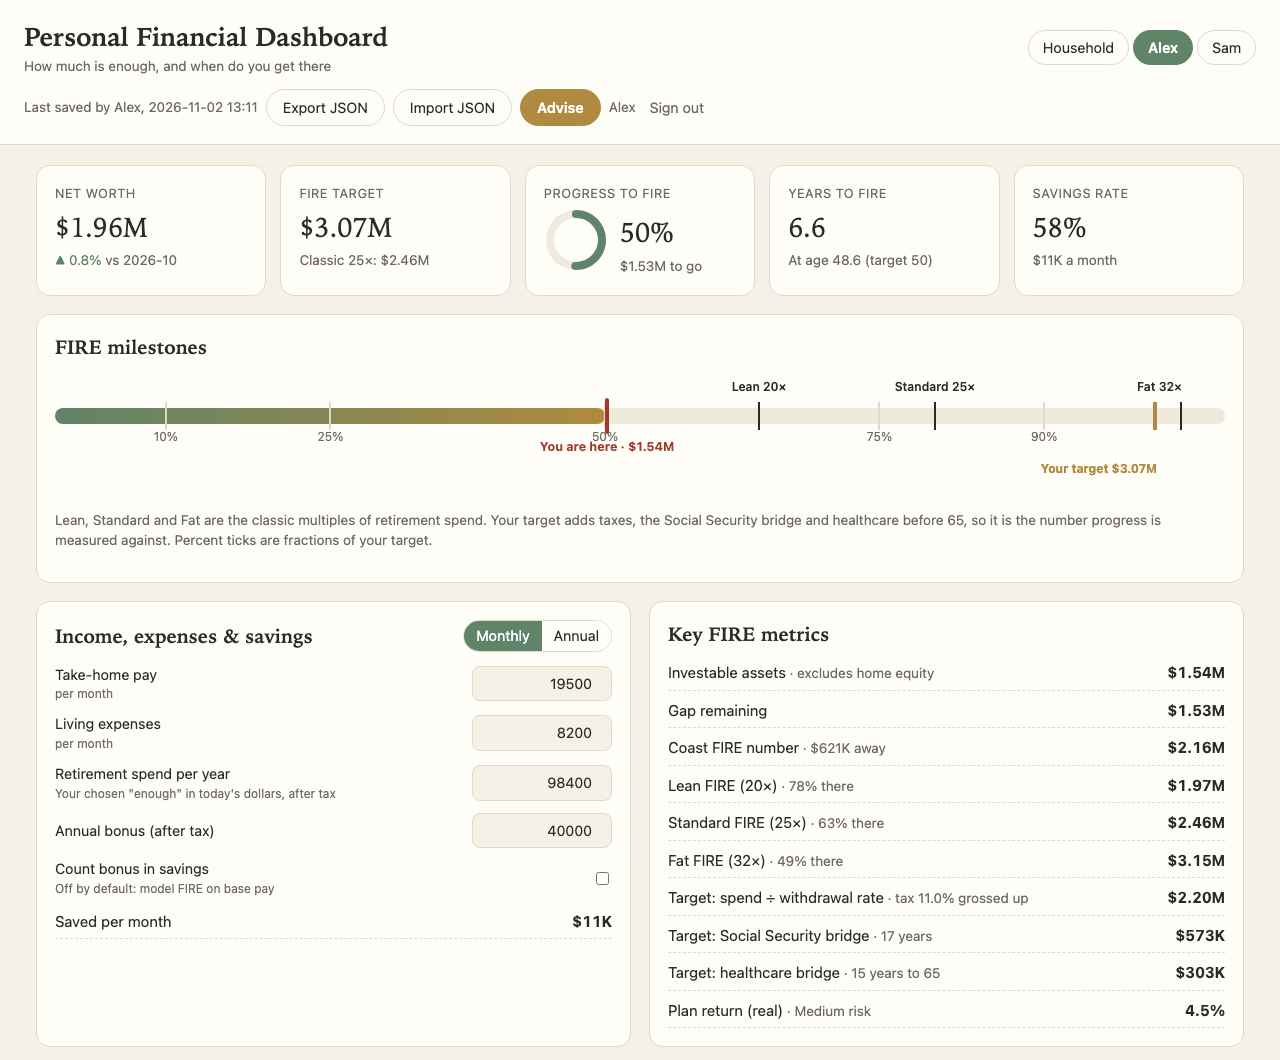
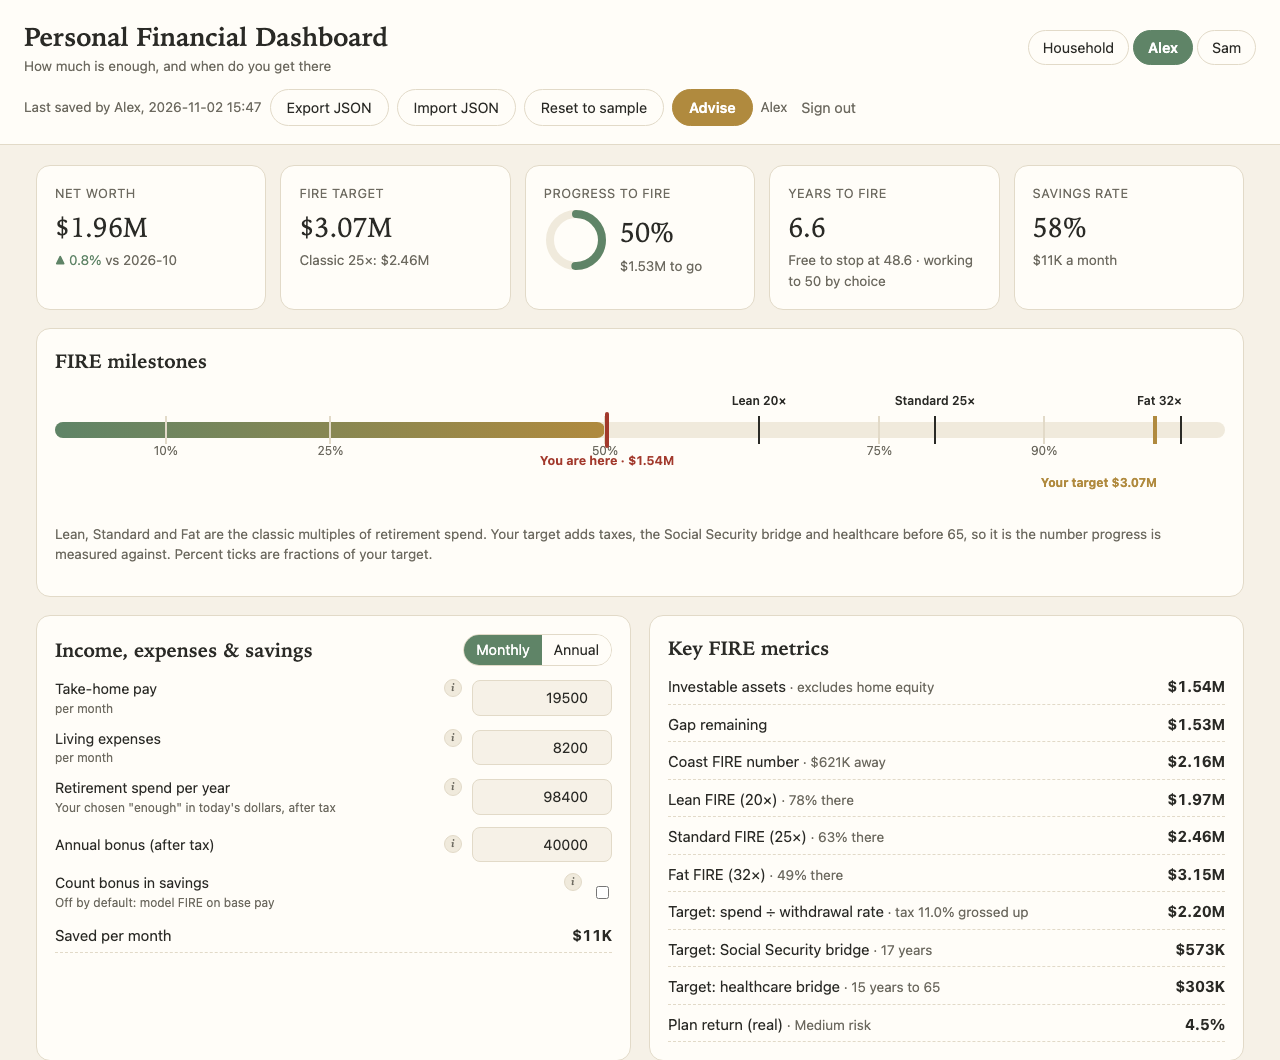
README: import, live prices, info tips, ages; new screenshots
Screenshot tour retaken (same fictional sample data) to show Import CSV,
Update prices, the holdings total row, Reset, the info tips and the
version footer, plus a new import-preview shot. Privacy section now says
exactly what Update prices sends. Roadmap drops the shipped holdings import.

diff --git a/README.md b/README.md
@@ -21,11 +21,14 @@ investment risk gets you there with the most margin. Your numbers never leave th
   risk portfolios through 2,000 simulated markets each and shows the chance your money lasts.
 - **Stress-tests the plan.** A crash the year you retire, your company stock halving, a sabbatical,
   a lower withdrawal rate. Each shows how far your date moves.
-- **Tracks what you own.** Type rounded totals, or add your holdings (fund, shares, price, cost basis)
-  and let it add them up as you invest.
+- **Tracks what you own.** Type rounded totals, or keep a holdings table: import your brokerage's
+  positions CSV in one go, and refresh every price with one click (optional, through your own MCP server).
 - **Works for a household.** Up to three people, each with a sign-in, plus a shared Household view
   that adds everyone's numbers together.
-- **Shows every formula** in plain English, with your own numbers filled in.
+- **Explains itself.** Every input has an "i" that says what belongs in it, and every formula is
+  shown in plain English with your own numbers filled in.
+- **Respects how you want to retire.** Set any target age, 75 included. If your money is enough
+  earlier, it says "free to stop at 63, working to 75 by choice".
 
 ## A quick tour
 
@@ -42,18 +45,25 @@ penalty-free money to reach 59½.
 
 One row per fund, stock or cash balance. Shares × price gives the value, or type a value for
 accounts like a 401(k). With holdings switched on, the account totals, allocation and company stock
-line come from these rows, and cost basis replaces the assumed capital-gains share.
+line come from these rows, and cost basis replaces the assumed capital-gains share. The total row
+shows the holdings value, cost basis, gain and the date the prices are from.
 
 ![Holdings, allocation and projections](docs/screenshots/holdings.png)
 
-**Import CSV:** download "positions" from your brokerage (E*TRADE, Fidelity, Schwab, Vanguard and
-others) and pick the file. It is parsed in your browser and only the resulting holdings are saved.
-The importer skips the brokerage's preamble and total rows, reads the account type per row where the
-file names it, and shows a preview with adjustable column mapping before you add or replace rows.
+**Import CSV.** Download "positions" from your brokerage (E*TRADE, Fidelity, Schwab, Vanguard and
+others) and pick the file. It is parsed in your browser; only the resulting holdings are saved. The
+importer skips the brokerage's preamble and total rows, reads the account type per row where the file
+names it (Roth, IRA, 401(k), individual), turns money-market lines into cash and price-paid into
+cost basis, and shows a preview with adjustable column mapping before you add rows or replace the
+rows of the accounts the file covers. Excel files: save as CSV first.
 
-**Update prices (optional):** with `PFD_MCP_URL` pointing at an MCP server that has a `get_quotes`
-tool, one click refreshes the price of every row that has a ticker and shares. Only ticker symbols
-are sent, and only to that server.
+![Import preview](docs/screenshots/import.png)
+
+**Update prices (optional).** With `PFD_MCP_URL` pointing at an MCP server that has a `get_quotes`
+tool, one click refreshes the price of every row that has a ticker and shares, and opening a
+dashboard refreshes them by itself when the last fetch is more than 4 hours old. Stocks and ETFs get
+the latest trade price (possibly about 15 minutes delayed); mutual funds get the previous close.
+Symbols that cannot be priced are listed, never skipped silently.
 
 ### What-if simulator and stress tests
 
@@ -93,8 +103,10 @@ did. Every formula is listed at the bottom of the page.
   `backups/<dashboard>-before-reset-<time>.json`.
 - It cannot see or move money. Sign-in protects privacy between people on the same computer.
 - Optional: a local AI model ([Ollama](https://ollama.com)) can explain the advice in plain English.
-  It receives a rounded summary only, and only when you press **Explain**. Leave it unset and
-  nothing leaves the machine.
+  It receives a rounded summary only, and only when you press **Explain**.
+- Optional: **Update prices** sends ticker symbols (never quantities or values) to the MCP server you
+  configure, which looks the prices up on the internet.
+- Leave both unset and nothing leaves the machine.
 
 ## Run it yourself
 
@@ -133,7 +145,7 @@ On macOS it uses the rootless Podman machine (starting it if needed). The contai
 | `PFD_PORT` | Port for `./run.sh` (default 8118) |
 | `PFD_BIND` | Container bind address. `127.0.0.1` (default) is this computer only; `0.0.0.0` opens it to your network with no extra protection |
 | `OLLAMA_URL`, `OLLAMA_MODEL` | Optional local model for the plain-English explanation. `http://localhost:11434` works for both `./run.sh` and the container on macOS |
-| `PFD_MCP_URL` | Optional MCP server (streamable HTTP) with a `get_quotes` tool for **Update prices** |
+| `PFD_MCP_URL` | Optional MCP server (streamable HTTP) with a `get_quotes` tool, for **Update prices** and the refresh on open. Inside a container use the host's network address, not `localhost` |
 | `PFD_REPO_URL` | Shown in the landing page's "Run your own" box |
 | `PFD_PUBLIC_DEMO`, `PFD_TRUST_PROXY` | Hosted demo mode, see [Hosting a public demo](#hosting-a-public-demo) |
 
@@ -170,6 +182,7 @@ Everything is in today's dollars with real (after-inflation) returns.
 | Coast FIRE | Target ÷ (1 + return)^(years to target age) |
 | Lean / Standard / Fat | Retirement spend × 20 / 25 / 32, the classic ladder |
 | Monte Carlo | 2,000 paths of yearly lognormal returns per tier; success = money left at your plan-to age after retiring at your target age |
+| Ages | A target retirement age before your current age becomes 65, or your current age if you are already past 65 (the plan then tests retiring now). Plan-to age must come after it; Social Security starts between 62 and 70 |
 
 Tier assumptions (editable): low 3.0% real return / 7% volatility, medium 4.5% / 11%,
 high 5.5% / 16%. These are planning assumptions, not forecasts.
@@ -180,8 +193,12 @@ The math lives in [`static/finance.js`](static/finance.js) and the advice rules 
 ## Tests
 
 ```bash
-./run.sh test     # node tests for the math, python tests for the server
+./run.sh test     # node tests for the math and the CSV importer, python tests for the server
 ```
+
+The importer is tested against E*TRADE-, Fidelity-, Schwab- and Vanguard-style files in
+[`tests/fixtures/`](tests/fixtures/). Brokerages change their downloads; if yours is read wrongly,
+the column mapping in the preview fixes it, and an issue with the header row helps fix the default.
 
 ## Project layout
 
@@ -189,18 +206,19 @@ The math lives in [`static/finance.js`](static/finance.js) and the advice rules 
 server.py            stdlib HTTP server: sign-in, dashboards, optional Ollama call, user CLI
 static/finance.js    all calculations, incl. holdings and household totals (pure, tested)
 static/advice.js     tier strategies, recommendation, personal flags
+static/importer.js   brokerage positions CSV -> holdings (pure, tested)
 static/app.js        dashboard UI
 static/landing.*     landing page and sign-in
 static/charts.js     inline SVG charts
 run.sh               run locally, tests, user management
 ubuntu/              Containerfile + build-run.sh for Podman
-tests/               math and server tests
+tests/               math, importer and server tests; fixtures/ holds sample brokerage files
+VERSION              shown in the page footer with the build commit and date
 docs/screenshots/    the images above (sample data)
 ```
 
 ## Roadmap
 
-- Import holdings from brokerage CSV downloads (E*TRADE, Fidelity, Schwab, Vanguard)
 - Import 12 months of transactions to measure real spending
 - Read-only account sync where an official API exists
 
